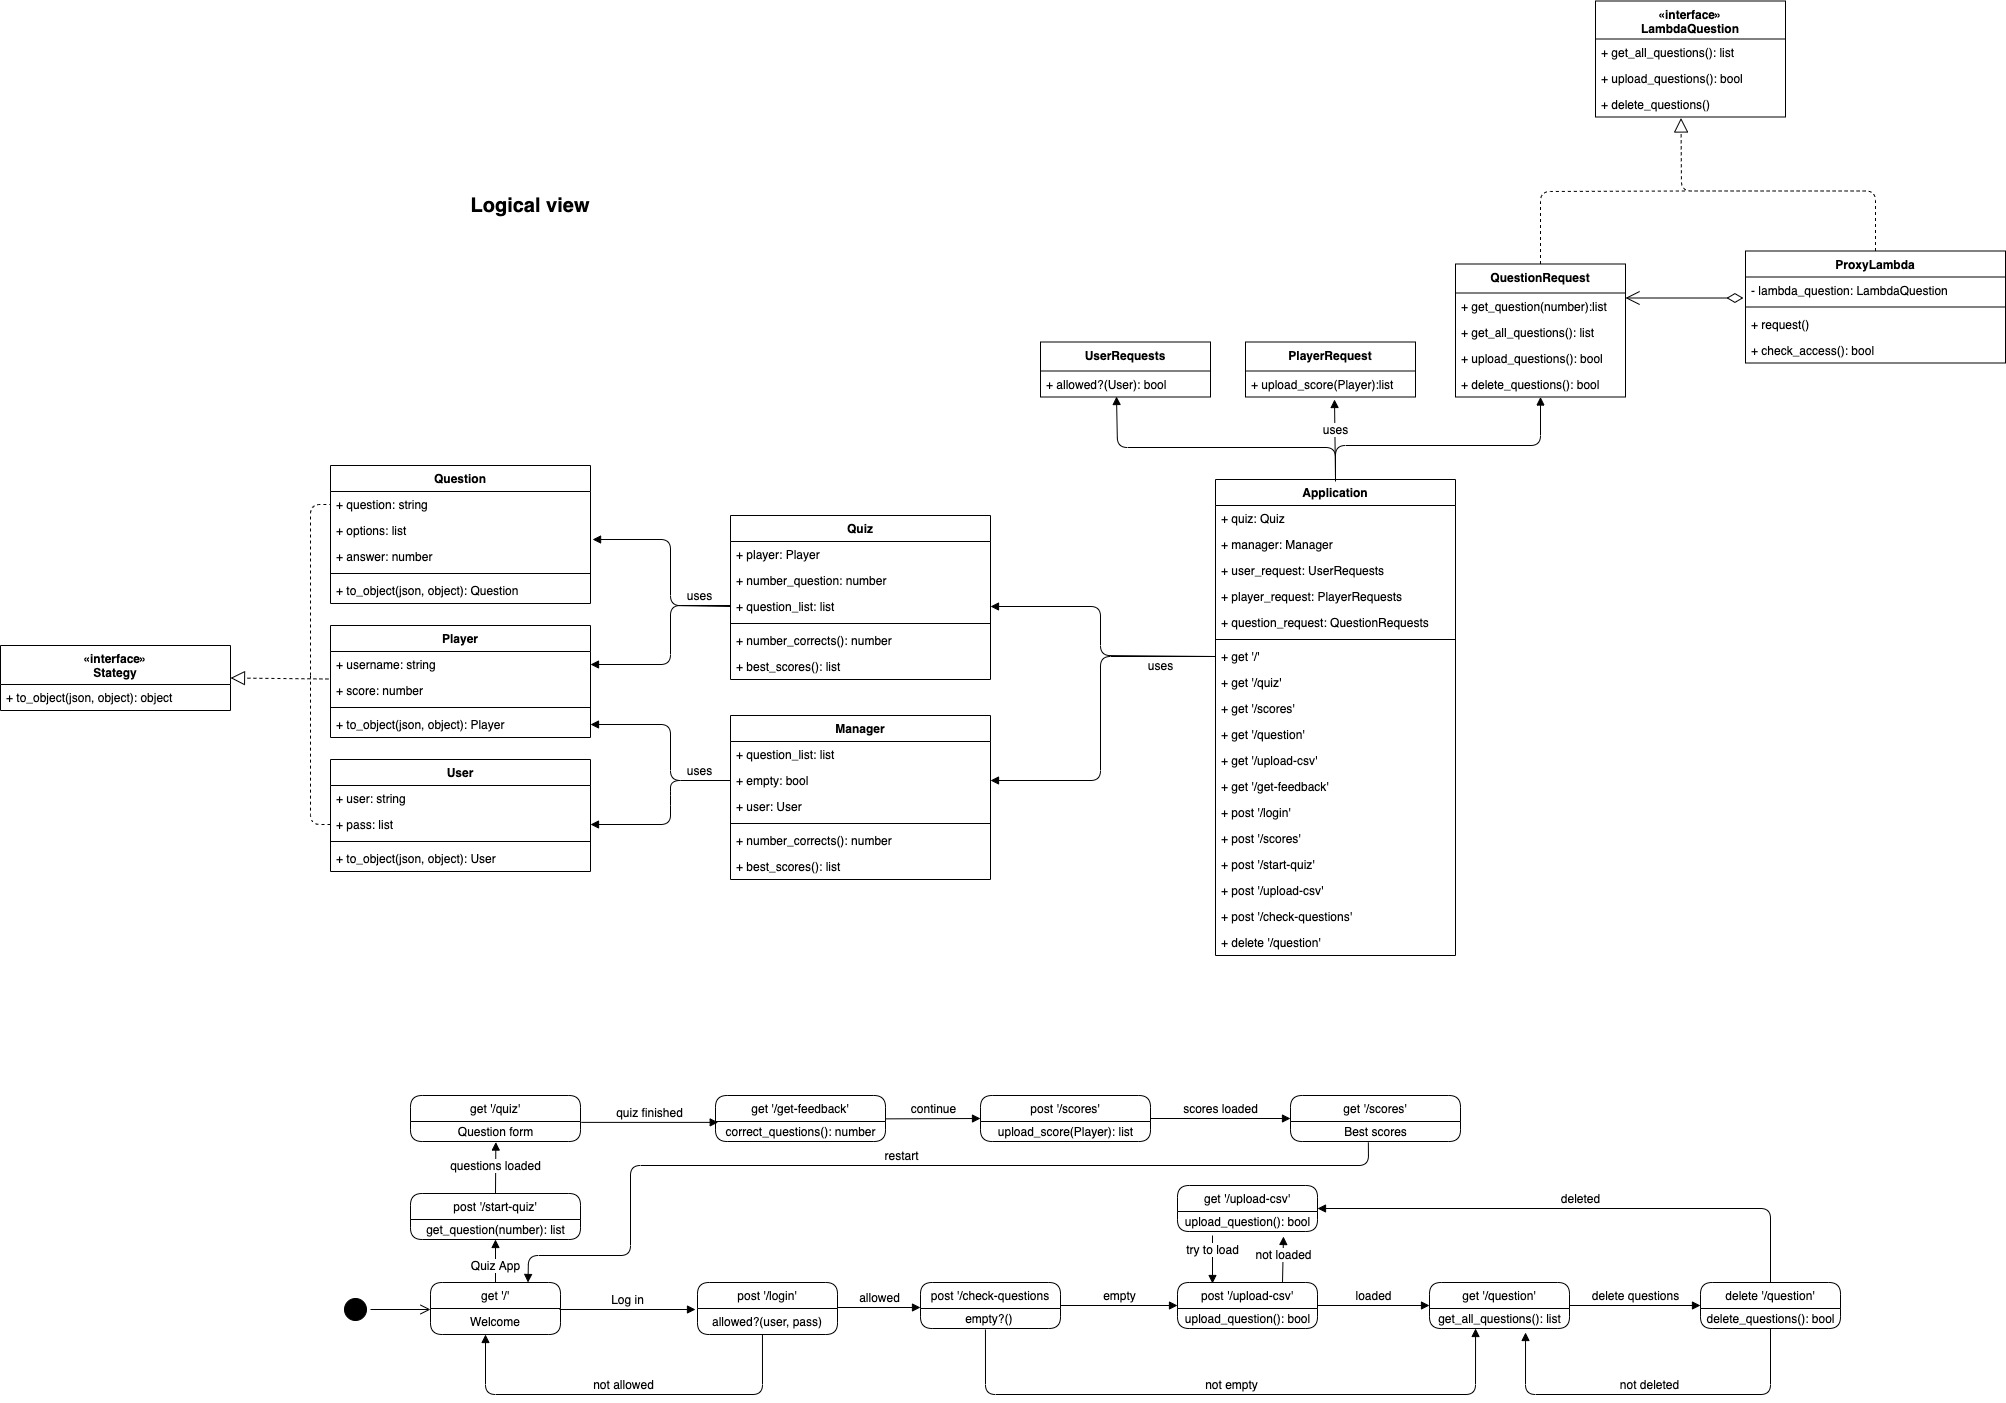
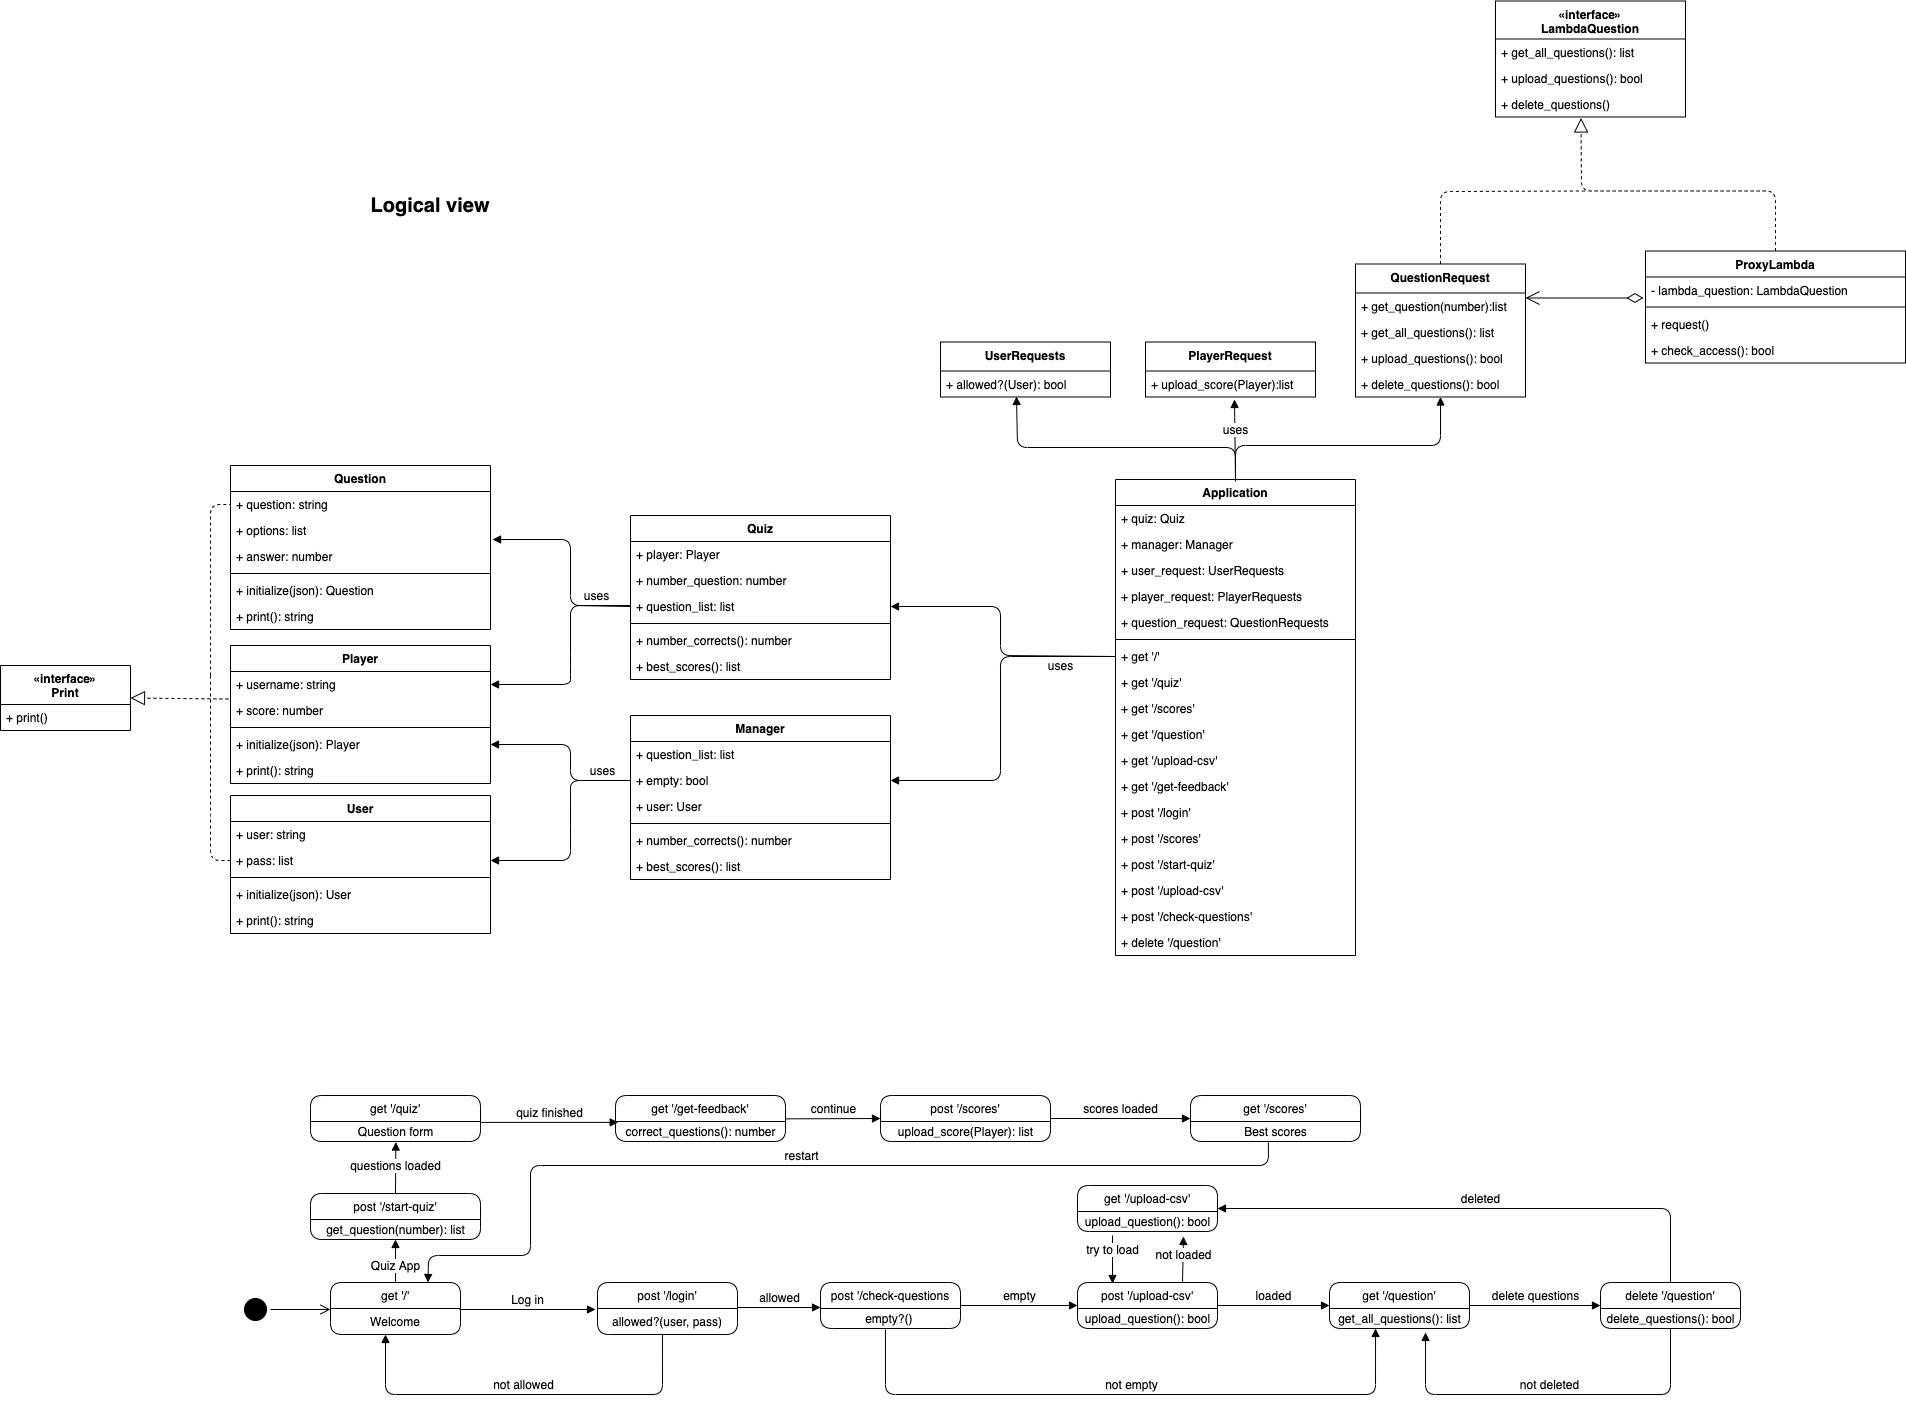
Models and test created

diff --git a/models/question.rb b/models/question.rb
@@ -1,0 +1,18 @@
+require 'json'
+require_relative './print'
+
+class Question < Print
+  attr_accessor :question, :options, :answer
+
+  def initialize(json)
+    data_hash = JSON.parse(json)
+
+    @question = data_hash['question']
+    @options = data_hash['options'].split(',').collect(&:strip)
+    @answer = data_hash['answer']
+  end
+
+  def print
+    "Question { question => #{@question}, options => #{@options}, answer => #{@answer} }"
+  end
+end

diff --git a/test/question_test.rb b/test/question_test.rb
@@ -1,0 +1,17 @@
+require 'minitest/autorun'
+require 'json'
+require '../models/question'
+
+class TestQuestion < Minitest::Test
+
+  def setup
+    @file = File.read('../json/questions.json')
+    @question = Question.new(@file)
+  end
+
+  def test_question
+    assert_equal \
+    'Question { question => question?, options => ["a", "b", "c", "d"], answer => 0 }',
+    @question.print
+  end
+end

diff --git a/test/player_test.rb b/test/player_test.rb
@@ -1,0 +1,17 @@
+require 'minitest/autorun'
+require 'json'
+require '../models/player'
+
+class TestPlayer < Minitest::Test
+
+  def setup
+    @file = File.read('../json/player.json')
+    @player = Player.new(@file)
+  end
+
+  def test_question
+    assert_equal \
+    'Player { username => skdv, score => 95 }',
+    @player.print
+  end
+end

diff --git a/test/user_test.rb b/test/user_test.rb
@@ -1,0 +1,17 @@
+require 'minitest/autorun'
+require 'json'
+require '../models/user'
+
+class TestUser < Minitest::Test
+
+  def setup
+    @file = File.read('../json/user.json')
+    @user = User.new(@file)
+  end
+
+  def test_question
+    assert_equal \
+    'Question { user => rafael_m, pass => ****** }',
+    @user.print
+  end
+end

diff --git a/models/player.rb b/models/player.rb
@@ -1,0 +1,14 @@
+require 'json'
+require_relative './print'
+
+class Player < Print
+  attr_accessor
+
+  def initialize(json)
+
+  end
+
+  def print
+    ""
+  end
+end

diff --git a/models/user.rb b/models/user.rb
@@ -1,0 +1,15 @@
+require 'json'
+require_relative './print'
+
+class User < Print
+  attr_accessor
+
+  def initialize(json)
+
+  end
+
+  def print
+    ""
+  end
+end
+

diff --git a/models/print.rb b/models/print.rb
@@ -1,0 +1,6 @@
+class Print
+  def print
+    raise NotImplementedError, "#{self.class} has not implemented method '#{__method__}'"
+  end
+end
+
